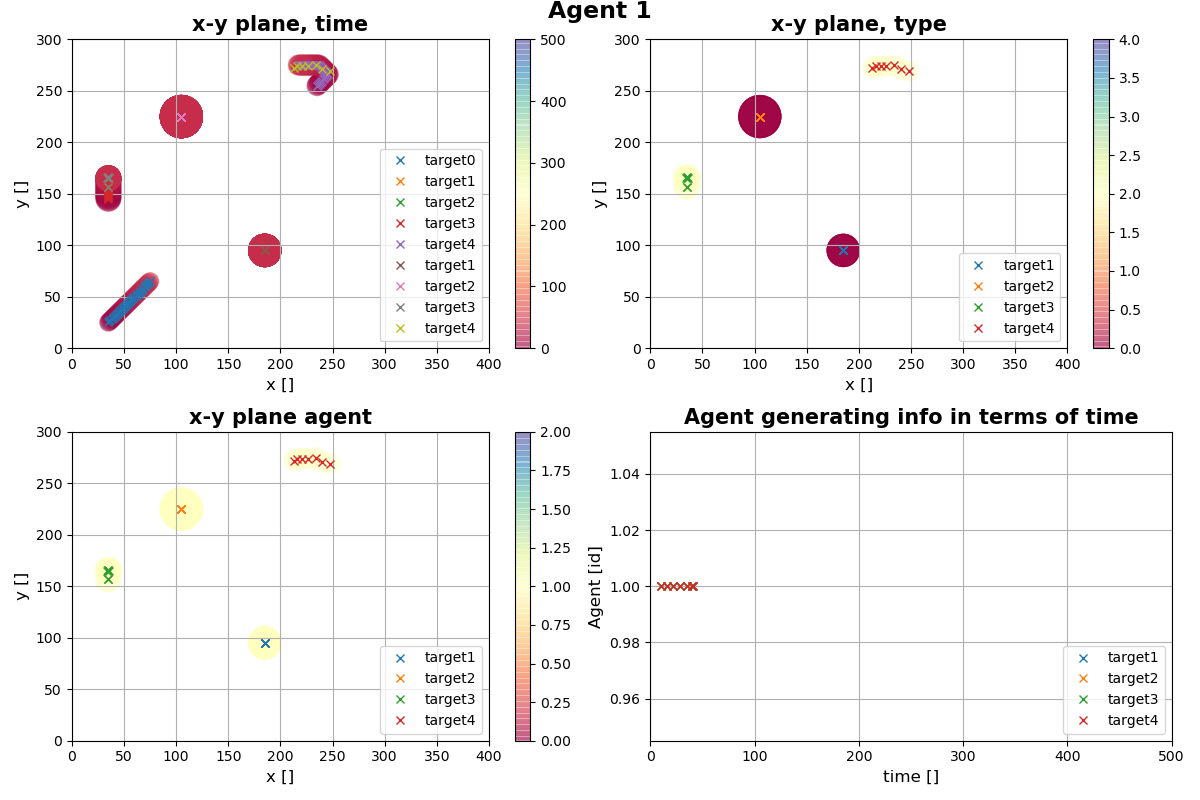
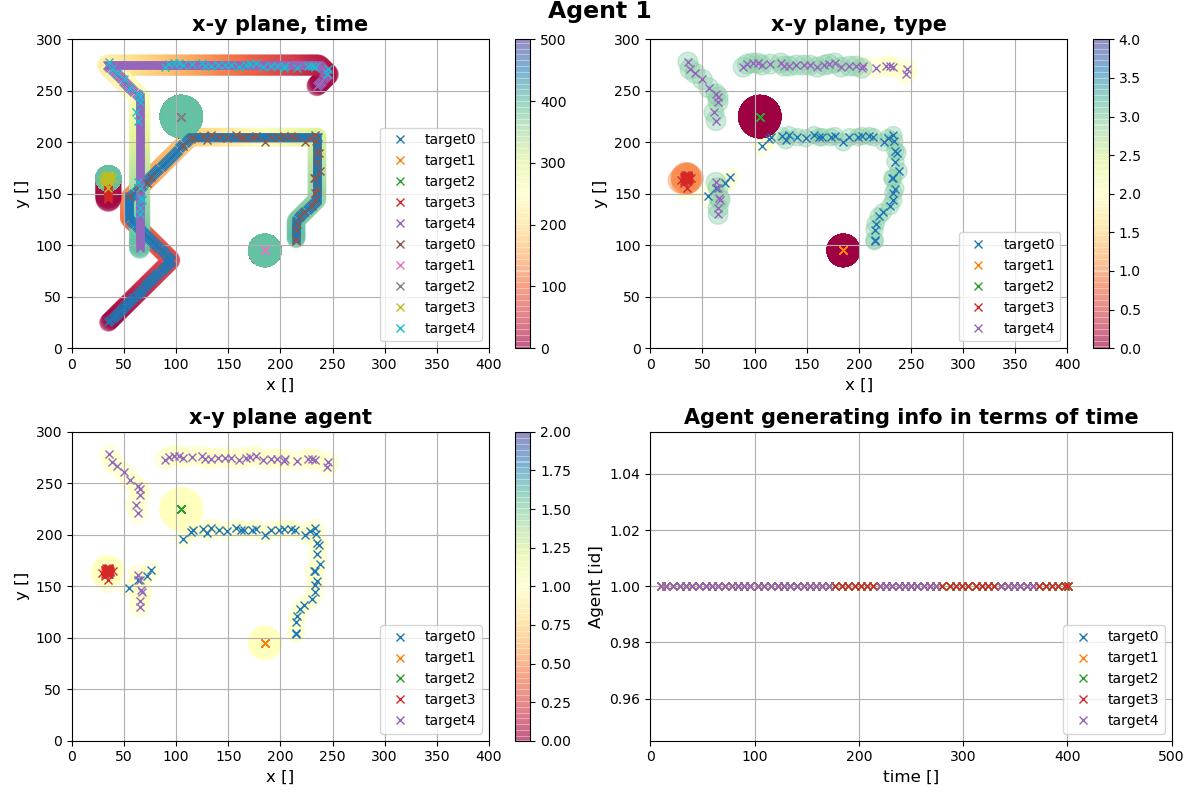
plot generation at the end of the simulation

diff --git a/plot_functions/plot_target_targetEstimator.py b/plot_functions/plot_target_targetEstimator.py
@@ -179,23 +179,27 @@ class AnalyseMemoryAgent:
         ax3 = fig_time_type_x_y.add_subplot(2, 2, 3)
         ax4 = fig_time_type_x_y.add_subplot(2, 2, 4)
 
-        for element in self.simulated_data_sort_by_target:
-            if target_id == int(element.target_id):
-                sc1 = plot_target_memory_time_x_y_2D(ax1, element.data_list,
-                                                     curve_label="target" + str(element.target_id))
+        try:
+            for element in self.simulated_data_sort_by_target:
+                if target_id == int(element.target_id):
+                    sc1 = plot_target_memory_time_x_y_2D(ax1, element.data_list,
+                                                         curve_label="target" + str(element.target_id))
 
-        for element in self.data_sort_by_target:
-            if target_id == int(element.target_id):
-                plot_target_memory_x_y(ax1, element.data_list, curve_label="target" + str(element.target_id))
-                sc2 = plot_target_memory_type_x_y_2D(ax2, element.data_list,
-                                                     curve_label="target" + str(element.target_id))
-                sc3 = plot_target_memory_agent_x_y_2D(ax3, element.data_list,
-                                                      curve_label="target" + str(element.target_id))
-                plot_target_memory_time_agent(ax4, element.data_list,
-                                              curve_label="target" + str(element.target_id))
+            for element in self.data_sort_by_target:
+                if target_id == int(element.target_id):
+                    plot_target_memory_x_y(ax1, element.data_list, curve_label="target" + str(element.target_id))
+                    sc2 = plot_target_memory_type_x_y_2D(ax2, element.data_list,
+                                                         curve_label="target" + str(element.target_id))
+                    sc3 = plot_target_memory_agent_x_y_2D(ax3, element.data_list,
+                                                          curve_label="target" + str(element.target_id))
+                    plot_target_memory_time_agent(ax4, element.data_list,
+                                                  curve_label="target" + str(element.target_id))
 
-        fig_time_type_x_y.colorbar(sc1, ax=ax1)
-        fig_time_type_x_y.colorbar(sc2, ax=ax2)
-        fig_time_type_x_y.colorbar(sc3, ax=ax3)
-        fig_time_type_x_y.savefig(PATH_SAVE_PLOT + VERSION_SAVE_PLOT + "agent_" + str(self.id) + "-target_" + str(target_id),
-                                  transparent=False)
+            fig_time_type_x_y.colorbar(sc1, ax=ax1)
+            fig_time_type_x_y.colorbar(sc2, ax=ax2)
+            fig_time_type_x_y.colorbar(sc3, ax=ax3)
+            fig_time_type_x_y.savefig(PATH_SAVE_PLOT + VERSION_SAVE_PLOT + "agent_" + str(self.id) + "-target_" + str(target_id),
+                                      transparent=False)
+
+        except:
+            print("error in plot_a_target_simulated_data_collected_data agent" + str(self.id) + " target " + str(target_id))

diff --git a/main.py b/main.py
@@ -134,6 +134,8 @@ class App:
             if self.room.time > tmax and USE_GUI == 1:
                 run = False
                 pygame.quit()
+            elif  self.room.time > tmax:
+                run = False
 
             '''Updating the time'''
             self.room.time = self.room.time + 1

diff --git a/constants.py b/constants.py
@@ -8,7 +8,7 @@ USE_static_analysis = 1
 USE_dynamic_analysis_simulated_room = 0
 
 
-T_MAX = 10000
+T_MAX = 400
 TIME_BTW_FRAMES = .1
 
 STATIC_ANALYSIS_PRECISION = 3  # best with 1 until map size
